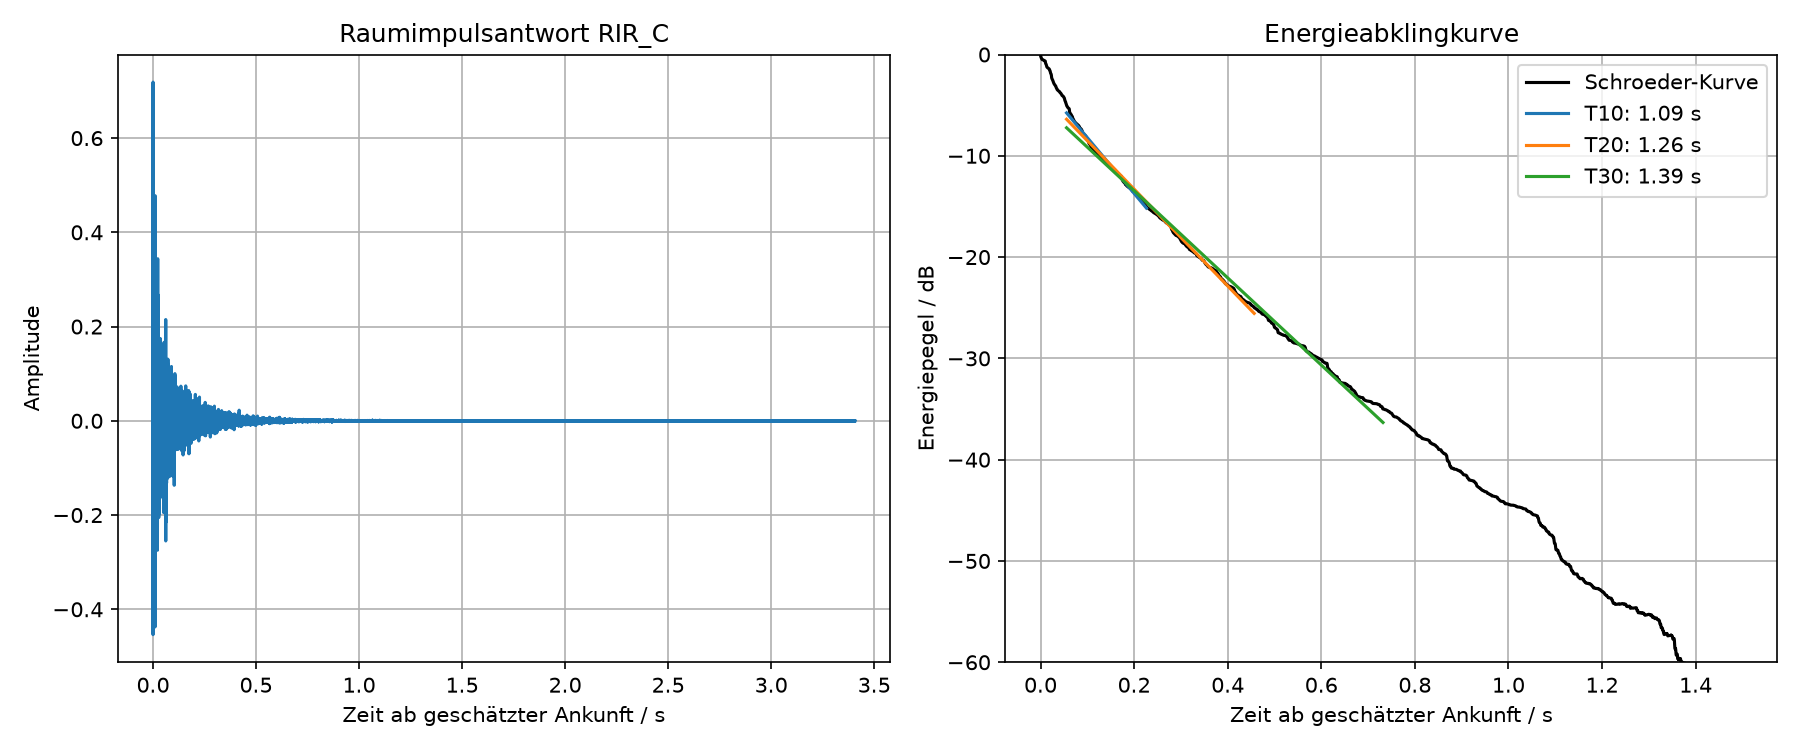
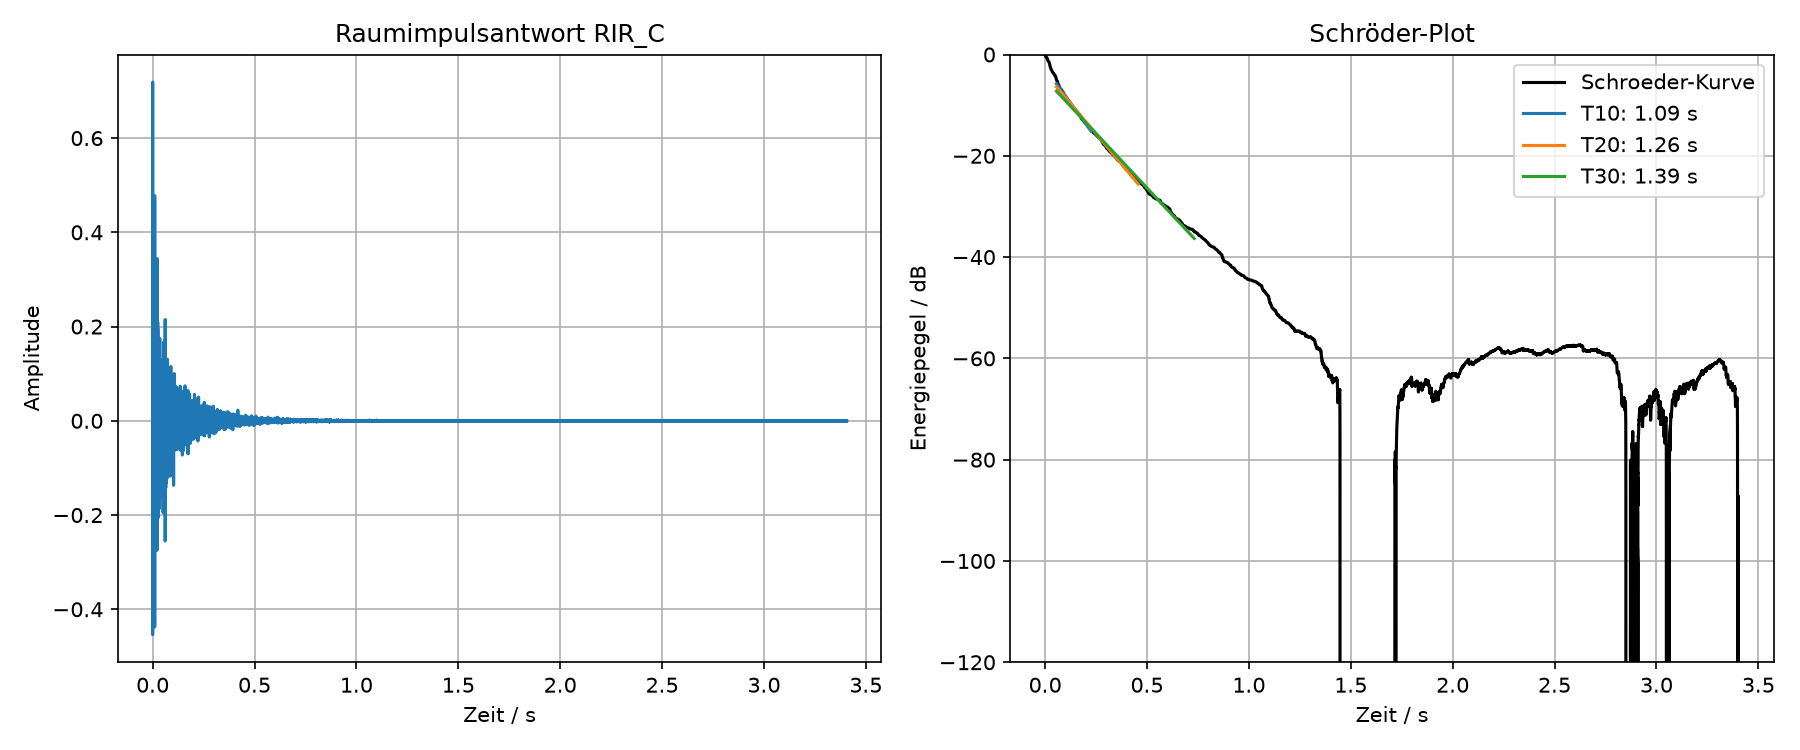
Überarbeitet

diff --git a/main (Jonah) ohne Auralisation.py b/main (Jonah) ohne Auralisation.py
@@ -16,7 +16,7 @@ audio_ordner = projekt_ordner / "Ergänzendes Material"
 
 raumvolumen = 6000                      # m³, gilt für RIR_C
 hoerabstaende = [5, 12]                 # m, nur für die STI-Näherung
-analyse_dauer = 1.5                     # s, Ausschnitt für die Nachhallauswertung
+analyse_dauer = 4                     # s, Ausschnitt für die Nachhallauswertung
 audio_abspielen = True
 
 
@@ -144,7 +144,7 @@ abbildung, (diagramm_rir, diagramm_nachhall) = plt.subplots(1, 2, figsize=(12, 5
 
 diagramm_rir.plot(zeit_rir, impulsantwort)
 diagramm_rir.set_title("Raumimpulsantwort RIR_C")
-diagramm_rir.set_xlabel("Zeit ab geschätzter Ankunft / s")
+diagramm_rir.set_xlabel("Zeit / s")
 diagramm_rir.set_ylabel("Amplitude")
 diagramm_rir.grid(True)
 
@@ -155,10 +155,10 @@ diagramm_nachhall.plot(zeit_analyse[bereich_t20], steigung_t20 * zeit_analyse[be
                        label=f"T20: {t20:.2f} s")
 diagramm_nachhall.plot(zeit_analyse[bereich_t30], steigung_t30 * zeit_analyse[bereich_t30] + offset_t30,
                        label=f"T30: {t30:.2f} s")
-diagramm_nachhall.set_title("Energieabklingkurve")
-diagramm_nachhall.set_xlabel("Zeit ab geschätzter Ankunft / s")
+diagramm_nachhall.set_title("Schröder-Plot")
+diagramm_nachhall.set_xlabel("Zeit / s")
 diagramm_nachhall.set_ylabel("Energiepegel / dB")
-diagramm_nachhall.set_ylim(-60, 0)
+diagramm_nachhall.set_ylim(-120, 0)
 diagramm_nachhall.legend()
 diagramm_nachhall.grid(True)
 
